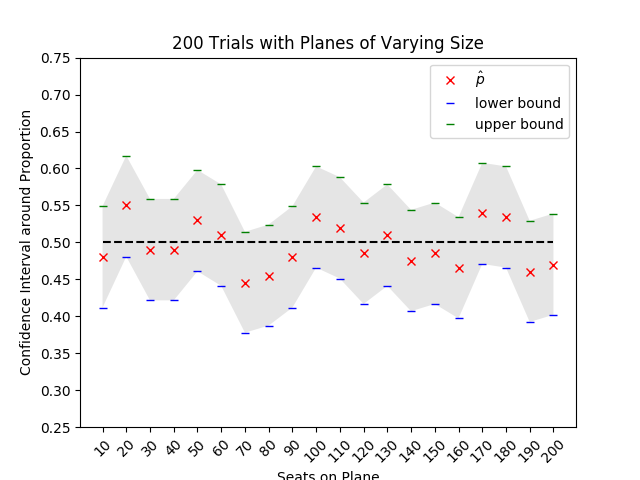
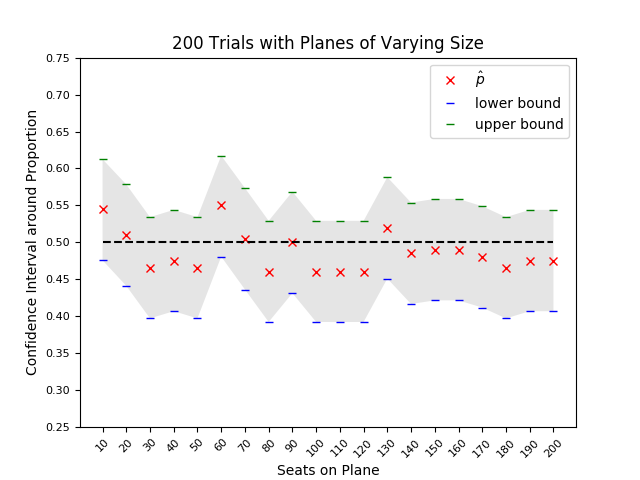
Fix axis label cutoff for multiplane plot

diff --git a/K_trials_variable_N.py b/K_trials_variable_N.py
@@ -52,9 +52,9 @@ def plot_multiple_plane_sizes(K, N_vector, conf_level = 0.95,\
 			 np.repeat([null_prop], repeats = 1000),'k--')
 
 	# Set up ticks, labels, and titles to look pretty
-	plt.xticks(N_vector, rotation = 45)
+	plt.xticks(N_vector, rotation = 45, fontsize = 8)
 	plt.xlabel('Seats on Plane')
-	plt.yticks(np.linspace(0.25,0.75,11))
+	plt.yticks(np.linspace(0.25,0.75,11), fontsize = 8)
 	plt.ylabel('Confidence Interval around Proportion')
 	plt.title('%s Trials with Planes of Varying Size' % K)
 	plt.legend(loc = 'best')
